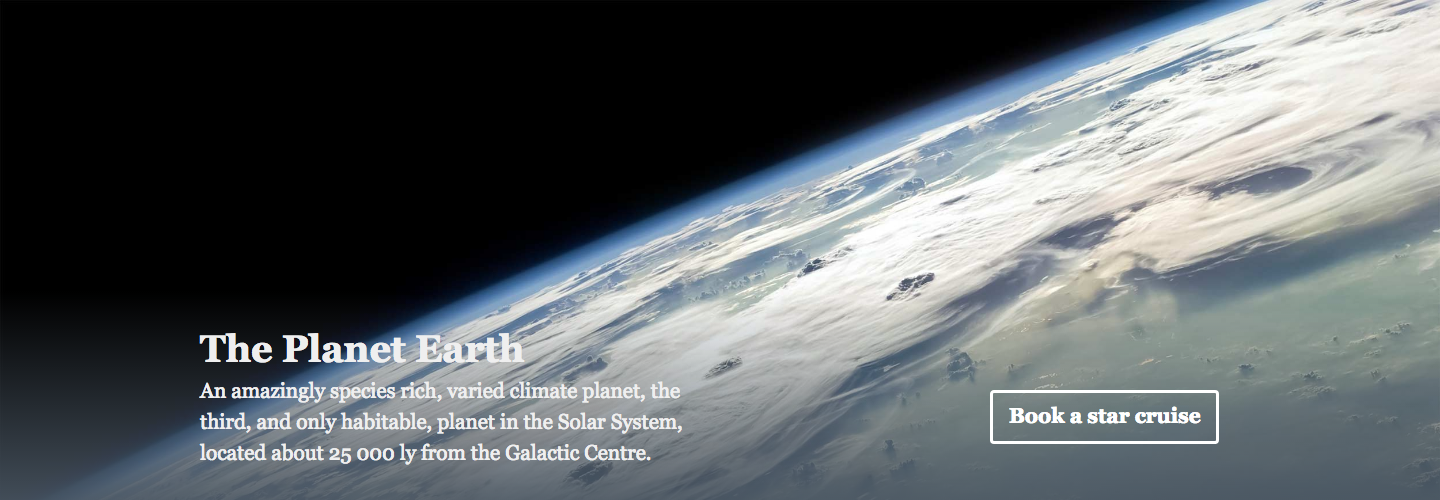
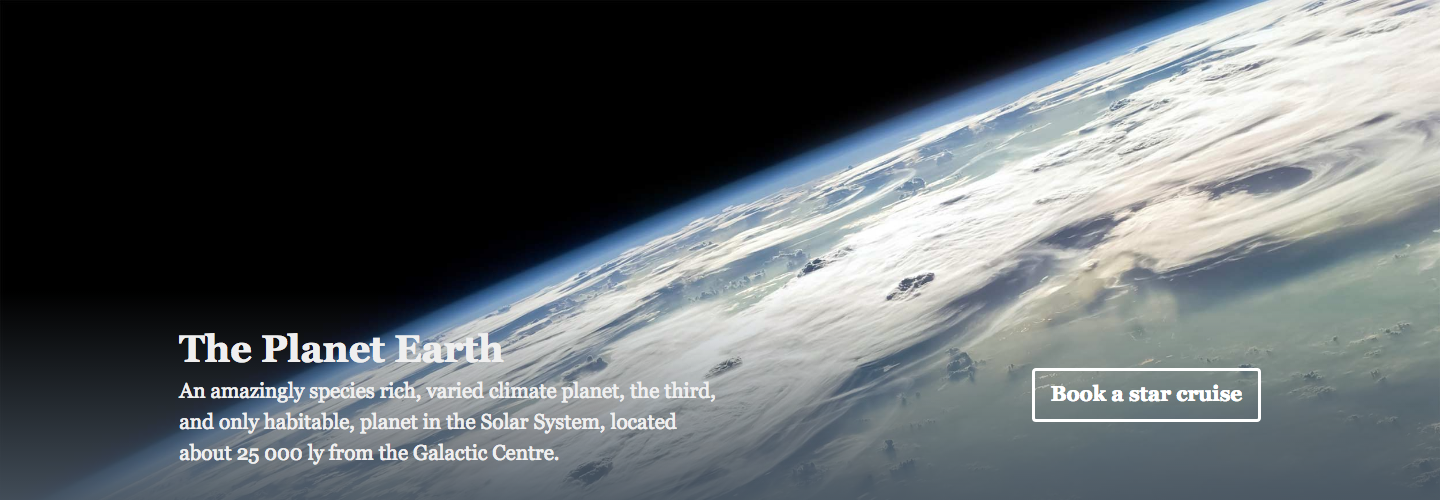
Update the assignment to be more inline with student expectations

Changed region(s): [[0.125, 0.66, 0.5, 0.93], [0.6875, 0.78, 0.875, 0.9], [0.7188, 0.72, 0.875, 0.75]]

diff --git a/README.md b/README.md
@@ -1,7 +1,7 @@
 ---
-summary: 'Practice some techniques from last term like modular CSS, type systems and also practice position.'
+summary: 'Practice some techniques from last term like modular CSS, grid systems, type systems and also practice position.'
 time: '1 hour'
-deliverables: '1 HTML file, 3 CSS files, images'
+deliverables: '1 HTML file, 4 CSS files, images'
 ---
 
 # Responsive banner
@@ -10,7 +10,7 @@ deliverables: '1 HTML file, 3 CSS files, images'
 
 - *Fork this repository.*
 - Create the layout that matches the screenshots
-- Use `type.css` and `modules.css` — do not include `grid.css` it isn’t required
+- Use `modules.css`, `grid.css` & `type.css`
 - Text can be found inside the `content.txt` file.
 - *Run it through Markbot and make sure it passes all the checks.*
 
@@ -19,12 +19,11 @@ deliverables: '1 HTML file, 3 CSS files, images'
 ## Details
 
 - *Typefaces:* `Georgia`
-- *Colours:* `#fff`, `#efefef`, `#97a49b`, `#495562`, `rgba(73, 85, 98, 0)` (you’ll have to adjust the opacity)
-- *Media query widths:* `42em`
-- *Maximum widths:* `25em`, `50em`
+- *Colours:* `#fff`, `#efefef`, `#97a49b`, `#495562`, `rgba(73, 85, 98, .9)`, `transparent`
 - *Maximum heights:* `500px`
-- *Typografier settings:* defaults
 - *Modulifier settings:* select all
+- *Gridifier settings:* defaults
+- *Typografier settings:* defaults
 
 ---
 
@@ -33,7 +32,7 @@ deliverables: '1 HTML file, 3 CSS files, images'
 Visually match the images in the “screenshots” folder and create the interaction shown in the linked video.
 
 - Final screenshots in the “screenshots” folder.
-- [**Watch this video to see how it interacts.**](https://youtu.be/u65dQnB7dJM)
+- [**Watch this video to see how it interacts.**](https://youtu.be/SwmuvJa9JtQ)
 
 ---
 
